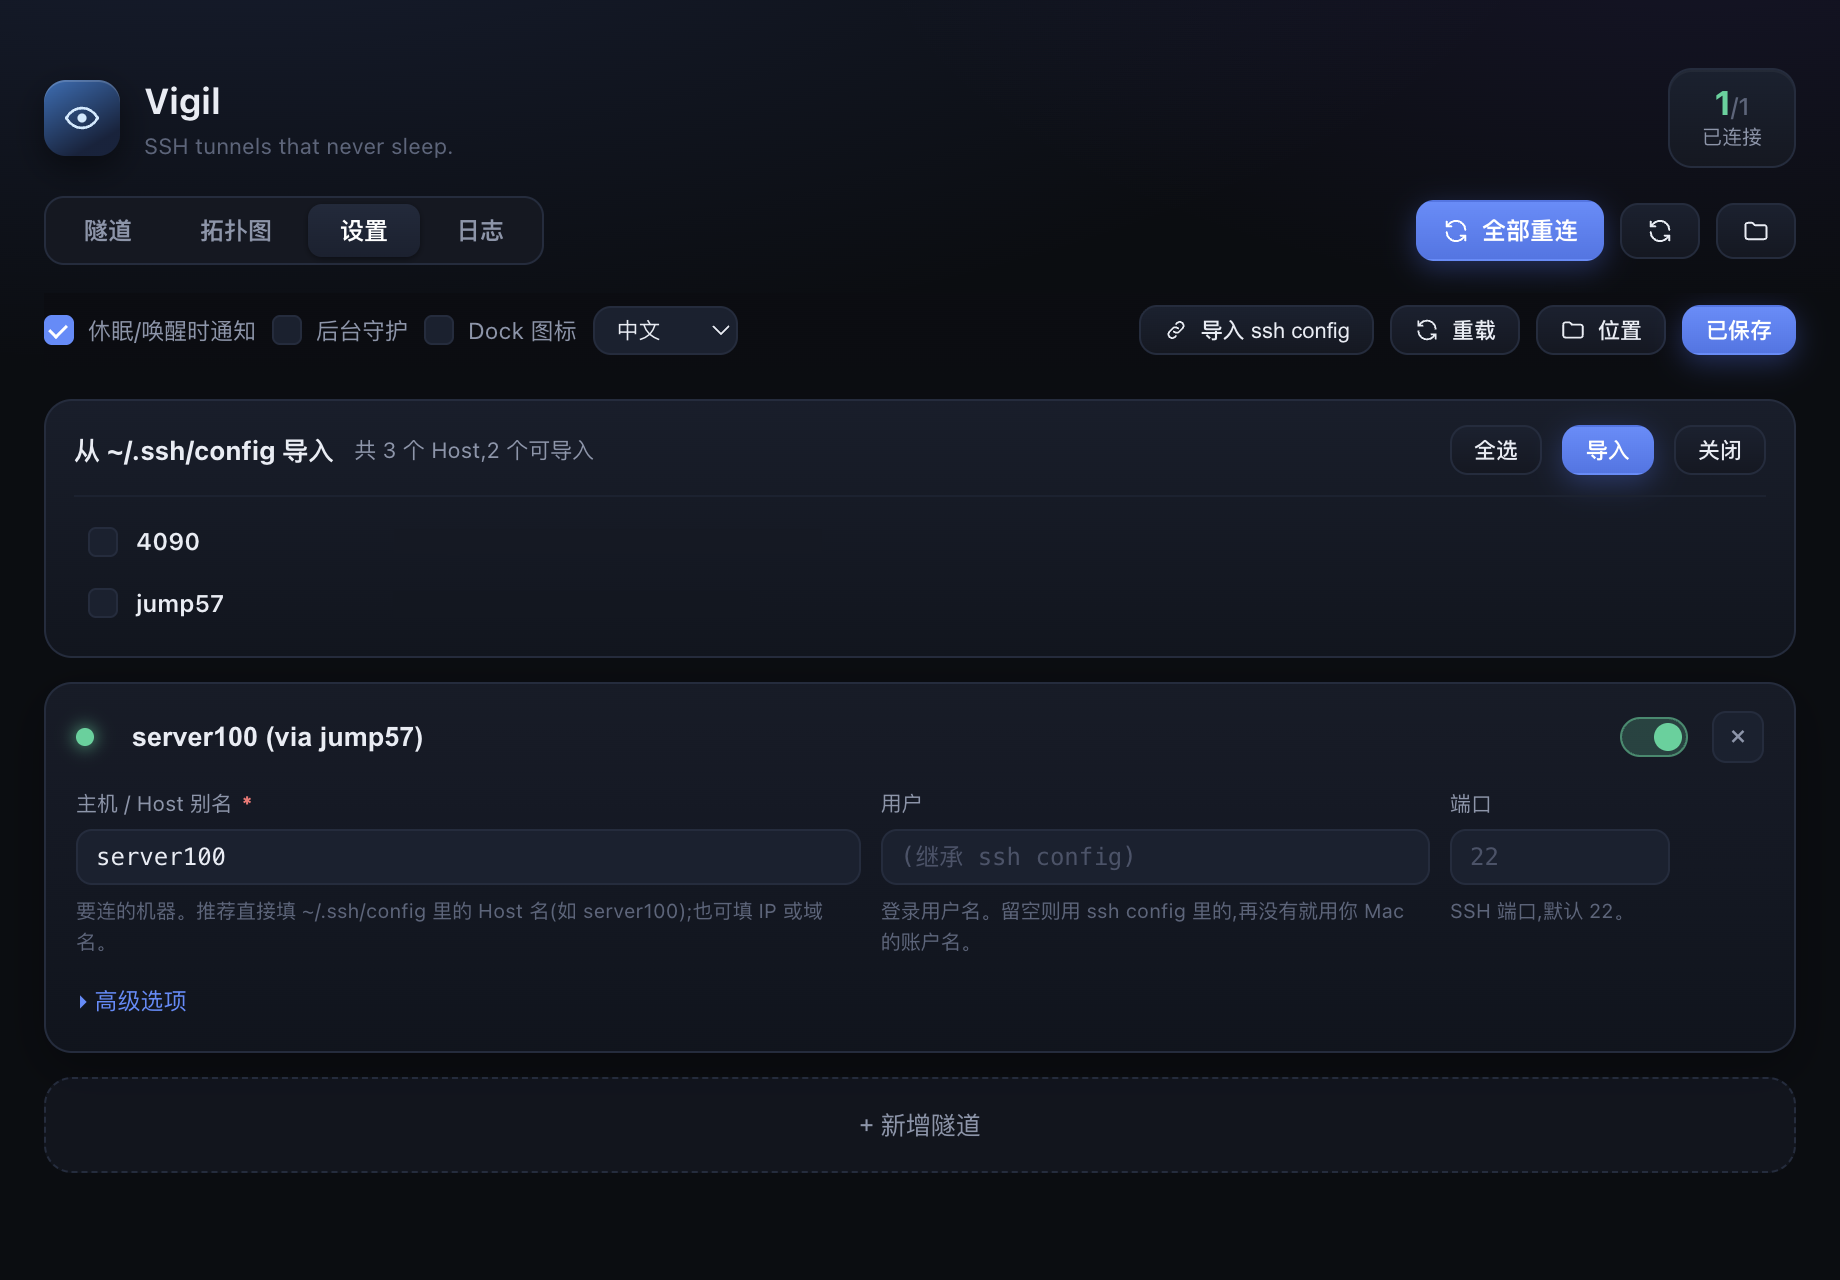
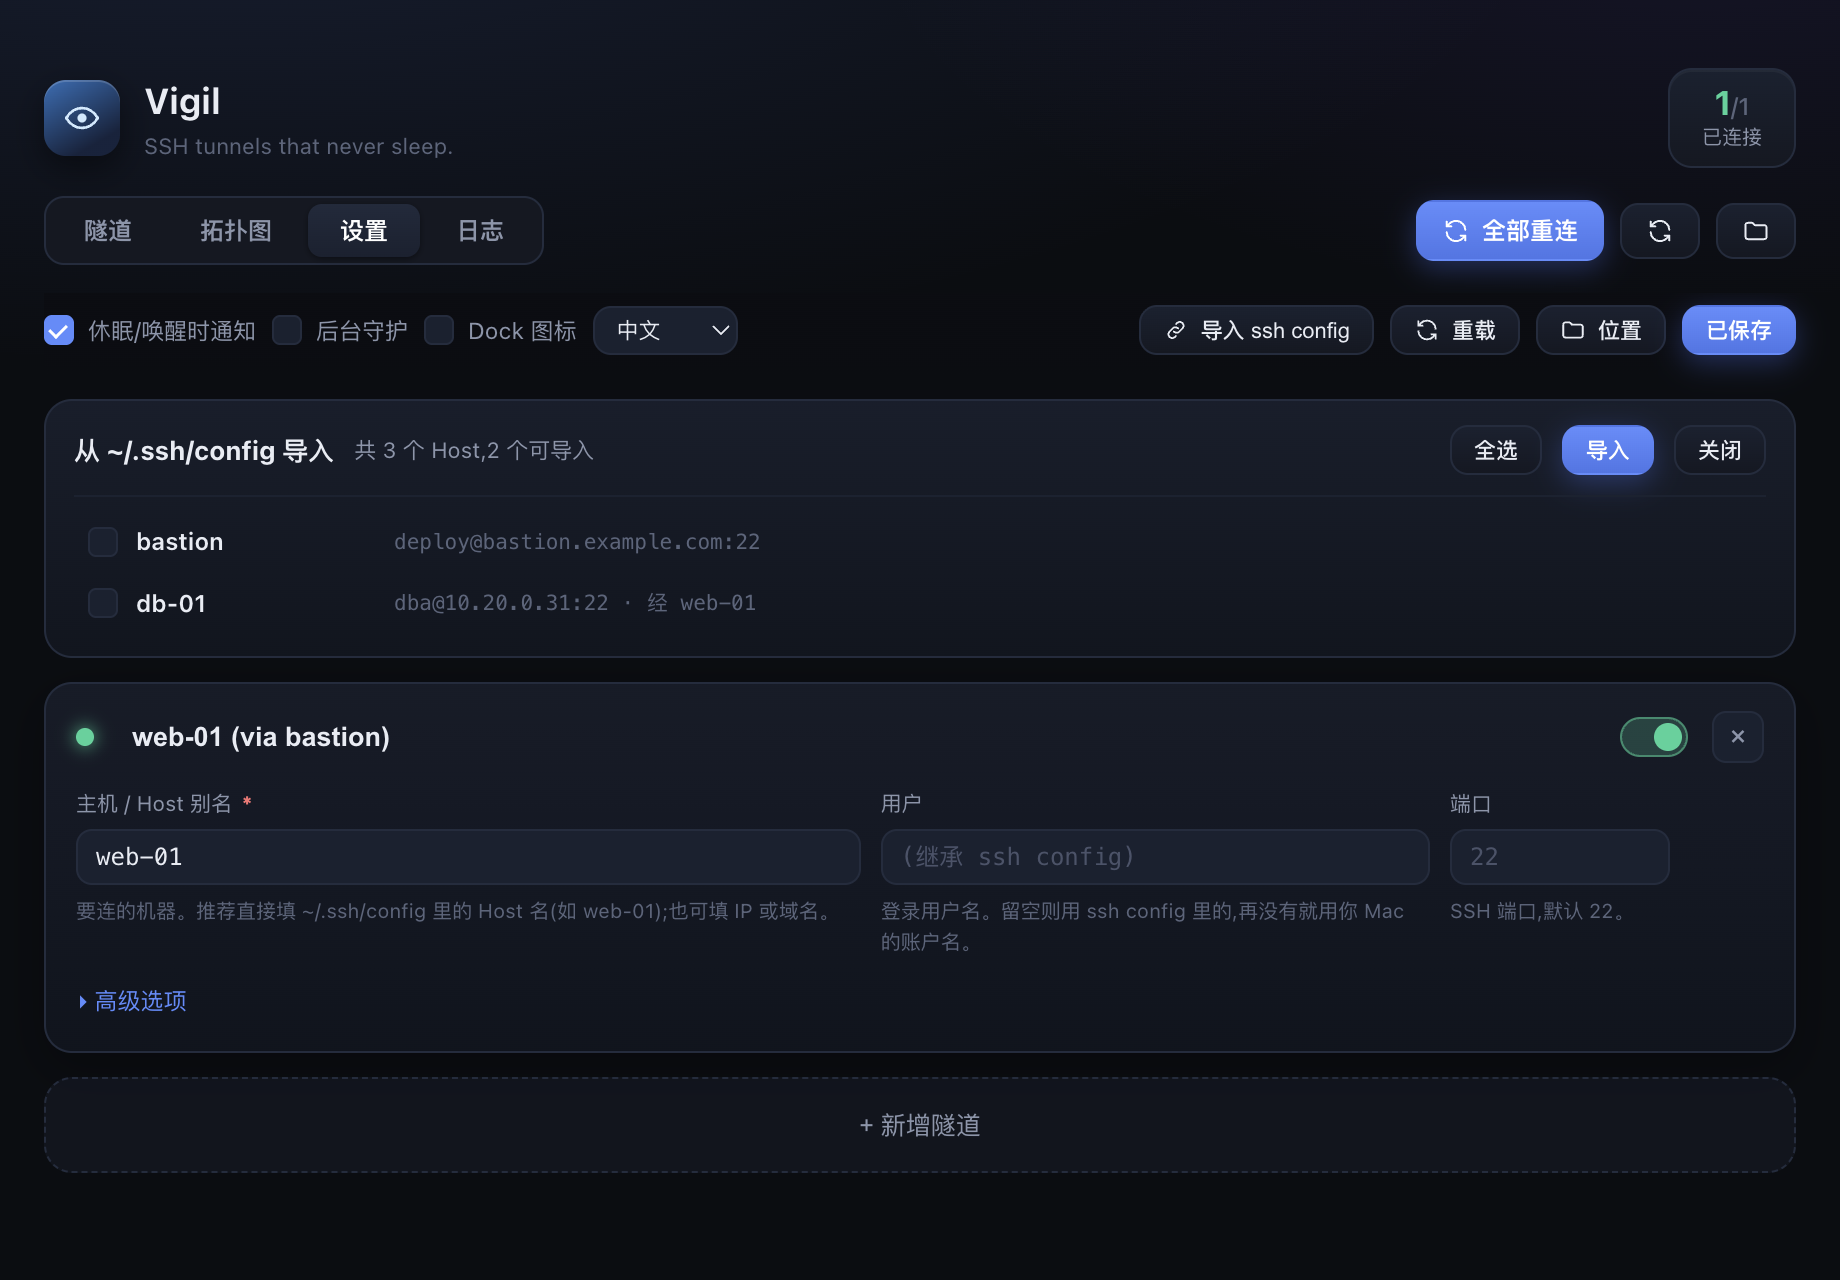
docs: use fully fictional host aliases and ports in screenshots and examples
- regenerate every screenshot from a synthetic environment (bastion / web-01 /
  db-01, deploy@bastion.example.com, ports 22 / 18080 / 11080) so no real host
  alias, port or username appears anywhere
- generic placeholders and hints in the UI (bastion / web-01 / 18080:localhost:80)
- default config is now empty instead of shipping a personal tunnel
- add VIGIL_SSH_CONFIG override (env only) used to shoot the screenshots

diff --git a/src/shared/i18n.ts b/src/shared/i18n.ts
@@ -109,7 +109,7 @@ const zh: Dict = {
   'settings.delete': '删除',
   'settings.namePh': '名称',
   'settings.host': '主机 / Host 别名',
-  'settings.hostHint': '要连的机器。推荐直接填 ~/.ssh/config 里的 Host 名(如 server100);也可填 IP 或域名。',
+  'settings.hostHint': '要连的机器。推荐直接填 ~/.ssh/config 里的 Host 名(如 web-01);也可填 IP 或域名。',
   'settings.user': '用户',
   'settings.userPh': '(继承 ssh config)',
   'settings.userHint': '登录用户名。留空则用 ssh config 里的,再没有就用你 Mac 的账户名。',
@@ -120,10 +120,10 @@ const zh: Dict = {
   'settings.identity': '私钥 IdentityFile',
   'settings.identityHint': '登录用的私钥文件,留空让 ssh 自动选择。',
   'settings.proxyJump': '跳板 ProxyJump',
-  'settings.proxyJumpHint': '先经哪台机器再连目标(跳板机),填别名如 jump57。',
+  'settings.proxyJumpHint': '先经哪台机器再连目标(跳板机),填别名如 bastion。',
   'settings.localForward': '本地转发',
   'settings.localForwardDesc':
-    '把远程的某个服务搬到本机。格式「本机端口:目标主机:目标端口」。例 8042:localhost:80 —— 之后访问本机的 8042,就等于访问服务器上的 80。',
+    '把远程的某个服务搬到本机。格式「本机端口:目标主机:目标端口」。例 18080:localhost:80 —— 之后访问本机的 18080,就等于访问服务器上的 80。',
   'settings.remoteForward': '远程转发',
   'settings.remoteForwardDesc':
     '把本机的服务暴露到远程。格式「远程端口:目标主机:目标端口」。例 2222:localhost:22 —— 之后在服务器上连 2222,就连回你本机的 22。',
@@ -263,7 +263,7 @@ const en: Dict = {
   'settings.namePh': 'Name',
   'settings.host': 'Host / alias',
   'settings.hostHint':
-    'The machine to connect to. Prefer a Host alias from ~/.ssh/config (e.g. server100); an IP or domain also works.',
+    'The machine to connect to. Prefer a Host alias from ~/.ssh/config (e.g. web-01); an IP or domain also works.',
   'settings.user': 'User',
   'settings.userPh': '(inherit from ssh config)',
   'settings.userHint':
@@ -276,10 +276,10 @@ const en: Dict = {
   'settings.identity': 'Identity file',
   'settings.identityHint': 'Private key to log in with; leave blank to let ssh choose.',
   'settings.proxyJump': 'ProxyJump',
-  'settings.proxyJumpHint': 'Jump host to route through first, e.g. jump57.',
+  'settings.proxyJumpHint': 'Jump host to route through first, e.g. bastion.',
   'settings.localForward': 'Local forward',
   'settings.localForwardDesc':
-    'Bring a remote service to this machine. Format "local_port:target_host:target_port". Example 8042:localhost:80 — hitting local 8042 then reaches port 80 on the server.',
+    'Bring a remote service to this machine. Format "local_port:target_host:target_port". Example 18080:localhost:80 — hitting local 18080 then reaches port 80 on the server.',
   'settings.remoteForward': 'Remote forward',
   'settings.remoteForwardDesc':
     'Expose a local service on the remote. Format "remote_port:target_host:target_port". Example 2222:localhost:22 — connecting to 2222 on the server comes back to your local 22.',

diff --git a/src/renderer/src/Settings.tsx b/src/renderer/src/Settings.tsx
@@ -188,7 +188,7 @@ function TunnelForm({ tunnel, onChange, onRemove, t }: TunnelFormProps): JSX.Ele
           </label>
           <input
             value={tunnel.host}
-            placeholder="server100"
+            placeholder="web-01"
             spellCheck={false}
             onChange={(e) => onChange({ host: e.target.value })}
           />
@@ -240,7 +240,7 @@ function TunnelForm({ tunnel, onChange, onRemove, t }: TunnelFormProps): JSX.Ele
               <label className="field__label">{t('settings.proxyJump')}</label>
               <input
                 value={tunnel.proxyJump ?? ''}
-                placeholder="jump57"
+                placeholder="bastion"
                 spellCheck={false}
                 onChange={(e) => onChange({ proxyJump: e.target.value })}
               />
@@ -253,7 +253,7 @@ function TunnelForm({ tunnel, onChange, onRemove, t }: TunnelFormProps): JSX.Ele
             label={t('settings.localForward')}
             hint="-L"
             desc={t('settings.localForwardDesc')}
-            placeholder="8042:localhost:80"
+            placeholder="18080:localhost:80"
             values={tunnel.localForwards}
             onChange={(v) => onChange({ localForwards: v })}
           />
@@ -271,7 +271,7 @@ function TunnelForm({ tunnel, onChange, onRemove, t }: TunnelFormProps): JSX.Ele
             label={t('settings.dynamicForward')}
             hint="-D, SOCKS"
             desc={t('settings.dynamicForwardDesc')}
-            placeholder="127.0.0.1:1080"
+            placeholder="127.0.0.1:11080"
             values={tunnel.dynamicForwards}
             onChange={(v) => onChange({ dynamicForwards: v })}
           />

diff --git a/src/shared/types.ts b/src/shared/types.ts
@@ -22,11 +22,11 @@ export interface TunnelConfig {
   port?: number
   identityFile?: string
   proxyJump?: string
-  /** `-L` specs, e.g. "8042:localhost:80" */
+  /** `-L` specs, e.g. "18080:localhost:80" */
   localForwards?: string[]
   /** `-R` specs, e.g. "2222:localhost:22" */
   remoteForwards?: string[]
-  /** `-D` socks specs, e.g. "127.0.0.1:1080" */
+  /** `-D` socks specs, e.g. "127.0.0.1:11080" */
   dynamicForwards?: string[]
   /** Raw `-o Key=Value` options. */
   sshOptions?: Record<string, string>
@@ -91,7 +91,7 @@ export interface ForwardEntry {
   bindPort: number | null
   targetHost: string | null
   targetPort: number | null
-  /** human label, e.g. "8042 -> localhost:80" */
+  /** human label, e.g. "18080 -> localhost:80" */
   label: string
   source: 'product' | 'ssh-config'
 }

diff --git a/scripts/resolve-check.ts b/scripts/resolve-check.ts
@@ -6,16 +6,16 @@ import { resolveAll } from '../src/main/resolver.ts'
 import type { TunnelConfig } from '../src/shared/types.ts'
 
 const tunnels: TunnelConfig[] = [
-  { id: 'server100', host: 'server100', enabled: true },
+  { id: 'web-01', host: 'web-01', enabled: true },
   // same host, but with a product-level forward to test merging + tagging
   {
-    id: 'server100+product',
-    host: 'server100',
+    id: 'web-01+product',
+    host: 'web-01',
     enabled: true,
     localForwards: ['9999:localhost:9999']
   },
-  { id: '4090', host: '4090', enabled: true },
-  { id: 'jump57', host: 'jump57', enabled: true }
+  { id: 'db-01', host: 'db-01', enabled: true },
+  { id: 'bastion', host: 'bastion', enabled: true }
 ]
 
 const resolved = await resolveAll(tunnels)

diff --git a/src/main/resolver.ts b/src/main/resolver.ts
@@ -70,7 +70,7 @@ function parseKeyValues(stdout: string): Map<string, string[]> {
 
 const first = (m: Map<string, string[]>, key: string): string | undefined => m.get(key)?.[0]
 
-/** Parse "[127.0.0.1]:1080" | "127.0.0.1:1080" | "8042" | "[::1]:80". */
+/** Parse "[127.0.0.1]:1080" | "127.0.0.1:11080" | "18080" | "[::1]:80". */
 function parseEndpoint(token: string): { address: string | null; port: number | null } {
   if (!token) return { address: null, port: null }
   if (token.startsWith('[')) {

diff --git a/src/main/config.ts b/src/main/config.ts
@@ -17,16 +17,7 @@ export function configPath(): string {
 const DEFAULT_CONFIG: VigilConfig = {
   version: 1,
   notifyOnPowerEvents: true,
-  tunnels: [
-    {
-      id: 'server100',
-      name: 'server100 (via jump57)',
-      host: 'server100',
-      enabled: true,
-      autoReconnect: true,
-      notifyOnReconnect: true
-    }
-  ]
+  tunnels: []
 }
 
 function str(v: unknown): string | undefined {

diff --git a/README.zh-CN.md b/README.zh-CN.md
@@ -26,7 +26,7 @@
 ## 为什么做这个
 
 笔记本会休眠,隧道会断。合上盖子再打开,你那条
-`ssh -L 8042:localhost:80 -J jump57 server100` 已经死了 —— 而**没有任何东西告诉你**。
+`ssh -L 18080:localhost:80 -J bastion web-01` 已经死了 —— 而**没有任何东西告诉你**。
 再叠加几台跳板机和一堆端口转发,"谁连着谁、转发到底通没通"就彻底变成一笔糊涂账。
 
 Vigil 就是来**把这些隧道养着,并告诉你真相**的:
@@ -190,19 +190,19 @@ Vigil 住在**菜单栏**,不在 Dock。点那个眼睛图标打开主窗口。
   "showDockIcon": false,          // 默认只在菜单栏
   "tunnels": [
     {
-      "id": "server100",
-      "name": "server100 (via jump57)",
-      "host": "server100",        // ~/.ssh/config 里的 Host 别名,或 IP / 域名
+      "id": "web-01",
+      "name": "web-01 (via bastion)",
+      "host": "web-01",        // ~/.ssh/config 里的 Host 别名,或 IP / 域名
       "enabled": true,
 
       // 全部可选 —— 留空表示"从 ~/.ssh/config 继承"
       "user": "zsh",
-      "port": 20022,
-      "identityFile": "~/.ssh/id_ed25519_server100_mac",
-      "proxyJump": "jump57",
-      "localForwards": ["8042:localhost:80"],   // -L
+      "port": 22,
+      "identityFile": "~/.ssh/id_ed25519",
+      "proxyJump": "bastion",
+      "localForwards": ["18080:localhost:80"],   // -L
       "remoteForwards": ["2222:localhost:22"],  // -R
-      "dynamicForwards": ["127.0.0.1:1080"],    // -D (SOCKS)
+      "dynamicForwards": ["127.0.0.1:11080"],    // -D (SOCKS)
       "sshOptions": { "ExitOnForwardFailure": "no" },
       "extraArgs": [],
 

diff --git a/README.md b/README.md
@@ -26,7 +26,7 @@
 ## Why
 
 Laptops sleep. Tunnels die. You close the lid, come back, and your
-`ssh -L 8042:localhost:80 -J jump57 server100` is a corpse — but nothing told you.
+`ssh -L 18080:localhost:80 -J bastion web-01` is a corpse — but nothing told you.
 Now multiply that by a few jump hosts and a handful of port forwards and it stops
 being obvious what is even connected to what.
 
@@ -200,19 +200,19 @@ Stored at `~/Library/Application Support/vigil/config.json`
   "showDockIcon": false,          // menu-bar only by default
   "tunnels": [
     {
-      "id": "server100",
-      "name": "server100 (via jump57)",
-      "host": "server100",        // an ~/.ssh/config Host alias, or an IP / domain
+      "id": "web-01",
+      "name": "web-01 (via bastion)",
+      "host": "web-01",        // an ~/.ssh/config Host alias, or an IP / domain
       "enabled": true,
 
       // all optional — blank means "inherit from ~/.ssh/config"
       "user": "zsh",
-      "port": 20022,
-      "identityFile": "~/.ssh/id_ed25519_server100_mac",
-      "proxyJump": "jump57",
-      "localForwards": ["8042:localhost:80"],   // -L
+      "port": 22,
+      "identityFile": "~/.ssh/id_ed25519",
+      "proxyJump": "bastion",
+      "localForwards": ["18080:localhost:80"],   // -L
       "remoteForwards": ["2222:localhost:22"],  // -R
-      "dynamicForwards": ["127.0.0.1:1080"],    // -D (SOCKS)
+      "dynamicForwards": ["127.0.0.1:11080"],    // -D (SOCKS)
       "sshOptions": { "ExitOnForwardFailure": "no" },
       "extraArgs": [],
 
